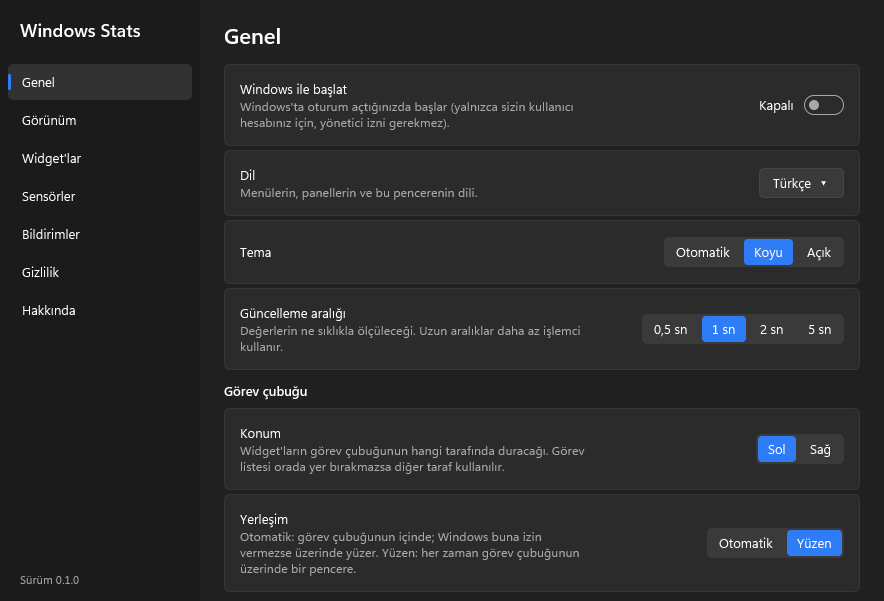
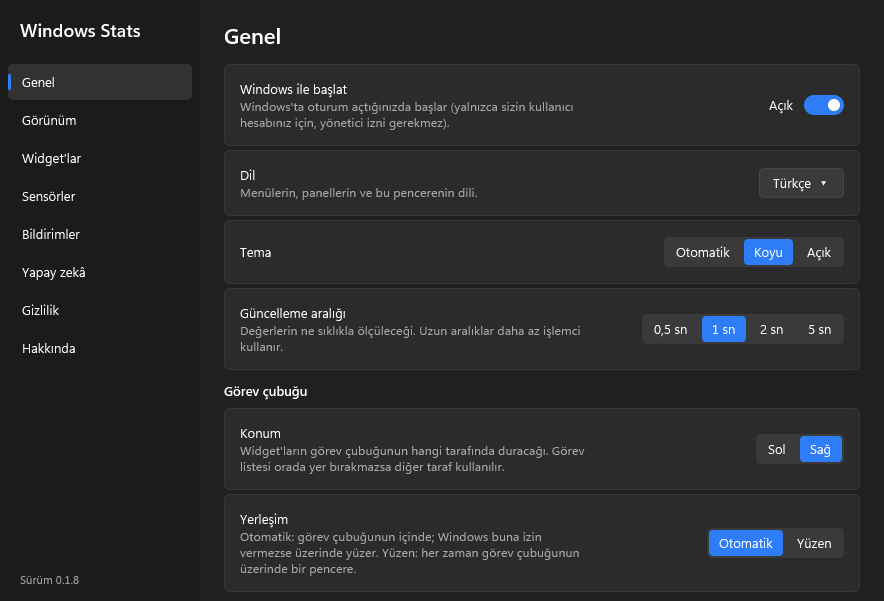
Version 0.1.8
Release notes, the version in Cargo.toml and the sensor helper, and the
README: the 32 languages, and fresh screenshots of every settings page
(the AI page is new; Notifications shows the new rules).

diff --git a/helpers/sensors/Program.cs b/helpers/sensors/Program.cs
@@ -28,7 +28,7 @@ using LibreHardwareMonitor.Hardware;
 
 static class Program
 {
-    const string Version = "0.1.7";
+    const string Version = "0.1.8";
 
     static int Main(string[] args)
     {

diff --git a/docs/release-notes/0.1.8.md b/docs/release-notes/0.1.8.md
@@ -1,0 +1,51 @@
+## English
+
+Windows Stats 0.1.8 tells you which program is behind a warning, adds warnings for problems people notice too late, and speaks 32 languages.
+
+### New
+
+- **The culprit on the card.** A CPU or memory warning now names the program using the most ("Using the most: Teams (71%)"), and a click opens the matching panel, where the program can be ended.
+- **Microphone or camera in use for long.** Warns when one program has kept the microphone or the camera on for longer than you set (30 minutes by default), with its name; a click opens the Windows privacy page for the device. The microphone is read from Windows' audio sessions (which program has a recording stream open, nothing is listened to); the camera from the usage records Windows keeps for its privacy page.
+- **Memory that keeps growing.** Warns when one program's memory grows steadily for hours ("chrome.exe keeps growing in memory: up 1.2 GB in 2 h, now 3.4 GB"), long before the whole computer slows down.
+- **Disk almost full.** Warns when a local drive drops below the free space you set (10 GB by default). Cloud drives such as Google Drive are left out.
+- **What's new, once.** The new warnings are off until you switch them on. After the update a card says so once; a click opens Settings → Notifications.
+- **32 languages.** Every language now has every text (until now, about half of the texts fell back to English outside English and Turkish), and Korean, Indonesian and Vietnamese are new. Except for English and Turkish, the translations are machine-made and not yet reviewed by native speakers; corrections are welcome.
+
+### Fixed
+
+- In languages with a long word for "Limit" (German, Vietnamese), the label no longer overlaps the duration control in Settings → Notifications.
+- Settings → AI says "Not asked yet" before the first question instead of "Following is off".
+
+The camera warning depends on Windows' privacy records; newer Windows 11 builds (seen on 26H2) no longer fill them in, and there the camera warning stays silent. The microphone warning is not affected.
+
+### Updating
+
+- **From 0.1.4 or newer:** Settings → About → **Check for updates**, then **Update to 0.1.8**.
+- **From older versions:** download **WindowsStats-0.1.8-x64.zip**, extract the whole archive and run `Kur.cmd`. Your settings are kept.
+
+---
+
+## Türkçe
+
+Windows Stats 0.1.8 bir uyarının arkasındaki programı söylüyor, geç fark edilen sorunlar için yeni uyarılar getiriyor ve 32 dil konuşuyor.
+
+### Yenilikler
+
+- **Kartta sorumlu program.** İşlemci ve bellek uyarıları artık en çok kullanan programın adını yazıyor ("En çok kullanan: Teams (%71)"); karta tıklayınca ilgili panel açılıyor ve program oradan kapatılabiliyor.
+- **Uzun süre açık kalan mikrofon ya da kamera.** Bir program mikrofonu ya da kamerayı belirlediğiniz süreden (varsayılan 30 dakika) uzun açık tutarsa adıyla birlikte uyarır; tıklayınca Windows'un o aygıtla ilgili gizlilik sayfası açılır. Mikrofon, Windows'un ses oturumlarından okunur (hangi programın açık bir kayıt akışı olduğu; hiçbir şey dinlenmez), kamera ise Windows'un gizlilik sayfası için tuttuğu kullanım kayıtlarından.
+- **Sürekli büyüyen bellek.** Bir programın belleği saatlerce düzenli olarak büyürse uyarır ("chrome.exe bellekte sürekli büyüyor: 2 saatte 1,2 GB arttı, şu an 3,4 GB"); bilgisayarın tamamı yavaşlamadan çok önce.
+- **Dolmak üzere olan disk.** Yerel bir sürücüdeki boş alan belirlediğiniz sınırın (varsayılan 10 GB) altına düşerse uyarır. Google Drive gibi bulut sürücüleri sayılmaz.
+- **Yenilikler bir kez.** Yeni uyarılar siz açana kadar kapalıdır. Güncellemeden sonra bunu bir kart bir kez söyler; tıklayınca Ayarlar → Bildirimler açılır.
+- **32 dil.** Artık her dilde bütün metinler var (şimdiye kadar İngilizce ve Türkçe dışındaki dillerde metinlerin yaklaşık yarısı İngilizce görünüyordu); Korece, Endonezce ve Vietnamca yeni. İngilizce ve Türkçe dışındaki çeviriler makine çevirisidir ve henüz anadili konuşan biri tarafından gözden geçirilmedi; düzeltmelere açığız.
+
+### Düzeltmeler
+
+- "Sınır" sözcüğü uzun olan dillerde (Almanca, Vietnamca) Ayarlar → Bildirimler'deki yazı artık süre düğmesinin üstüne binmiyor.
+- Ayarlar → Yapay zekâ, ilk sorudan önce "İzleme kapalı" yerine "Henüz sorulmadı" yazıyor.
+
+Kamera uyarısı Windows'un gizlilik kayıtlarına dayanır; daha yeni Windows 11 sürümleri (26H2'de görüldü) bu kayıtları artık doldurmuyor ve orada kamera uyarısı çalmaz. Mikrofon uyarısı bundan etkilenmez.
+
+### Güncelleme
+
+- **0.1.4 ve sonrasından:** Ayarlar → Hakkında → **Güncellemeleri denetle**, ardından **0.1.8 sürümüne güncelle**.
+- **Daha eski sürümlerden:** **WindowsStats-0.1.8-x64.zip** dosyasını indirin, arşivin tamamını çıkarın ve `Kur.cmd` dosyasını çalıştırın. Ayarlarınız korunur.

diff --git a/README.md b/README.md
@@ -30,8 +30,10 @@ Inspired by [Stats](https://github.com/exelban/stats) for macOS and built on
 - **For AI apps (MCP):** LM Studio, Claude Desktop, VS Code and other MCP clients can read this
   computer's load and the AI sessions read-only, also with local models. See
   [docs/mcp.md](docs/mcp.md).
-- **Interface in English and Turkish** (plus 27 more languages from winstats, partly translated);
-  the Windows display language is picked automatically.
+- **Interface in 32 languages**: English and Turkish, the 27 languages inherited from winstats,
+  and Korean, Indonesian and Vietnamese. The Windows display language is picked automatically.
+  Except for English and Turkish, the translations are machine-made and not yet reviewed by native
+  speakers; corrections are welcome.
 
 ## Try Windows Stats
 
@@ -76,15 +78,19 @@ are redacted in the detail panels; the covered areas are marked `[gizlendi]` (hi
 
 **Notifications**
 
-![Notification settings](docs/images/settings-4.png)
+![Notification settings: the microphone, camera, memory growth and disk space rules](docs/images/settings-4.png)
+
+**AI**
+
+![AI settings: local AI sessions not asked yet, and the MCP setup](docs/images/settings-5.png)
 
 **Privacy**
 
-![Privacy settings: latency measurement and the update check, both off](docs/images/settings-5.png)
+![Privacy settings: latency measurement and the update check, both off](docs/images/settings-6.png)
 
 **About**
 
-![About Windows Stats](docs/images/settings-6.png)
+![About Windows Stats](docs/images/settings-7.png)
 
 </details>
 

diff --git a/README.tr.md b/README.tr.md
@@ -36,6 +36,9 @@ geliştirilmiştir.
   bu bilgisayarın yükünü ve yapay zekâ oturumlarını salt okunur olarak okuyabilir; yerel modellerle de.
   Ayrıntılar: [docs/mcp.md](docs/mcp.md).
 - Tamamen **Türkçe** arayüz (Windows dili Türkçe ise otomatik), Türkçe birimler (KB/sn, 1,5 GB).
+- **32 dil**: Türkçe ve İngilizceye ek olarak winstats'tan gelen 27 dil ile Korece, Endonezce ve
+  Vietnamca. Windows'un görüntü dili kendiliğinden seçilir. Türkçe ve İngilizce dışındaki çeviriler
+  makine çevirisidir ve henüz anadili konuşan biri tarafından gözden geçirilmedi; düzeltmelere açığız.
 
 ## Ekran görüntüleri
 
@@ -74,15 +77,19 @@ bağdaştırıcı bilgileri ve sürücü etiketleri gizlendi; kapatılan alanlar
 
 **Bildirimler**
 
-![Bildirim ayarları](docs/images/settings-4.png)
+![Bildirim ayarları: mikrofon, kamera, bellek şişmesi ve boş disk alanı kuralları](docs/images/settings-4.png)
+
+**Yapay zekâ**
+
+![Yapay zekâ ayarları: henüz sorulmamış yerel yapay zekâ oturumları ve MCP kurulumu](docs/images/settings-5.png)
 
 **Gizlilik**
 
-![Gecikme ölçümünün ve güncelleme denetiminin kapalı olduğu gizlilik ayarları](docs/images/settings-5.png)
+![Gecikme ölçümünün ve güncelleme denetiminin kapalı olduğu gizlilik ayarları](docs/images/settings-6.png)
 
 **Hakkında**
 
-![Windows Stats hakkında](docs/images/settings-6.png)
+![Windows Stats hakkında](docs/images/settings-7.png)
 
 </details>
 
